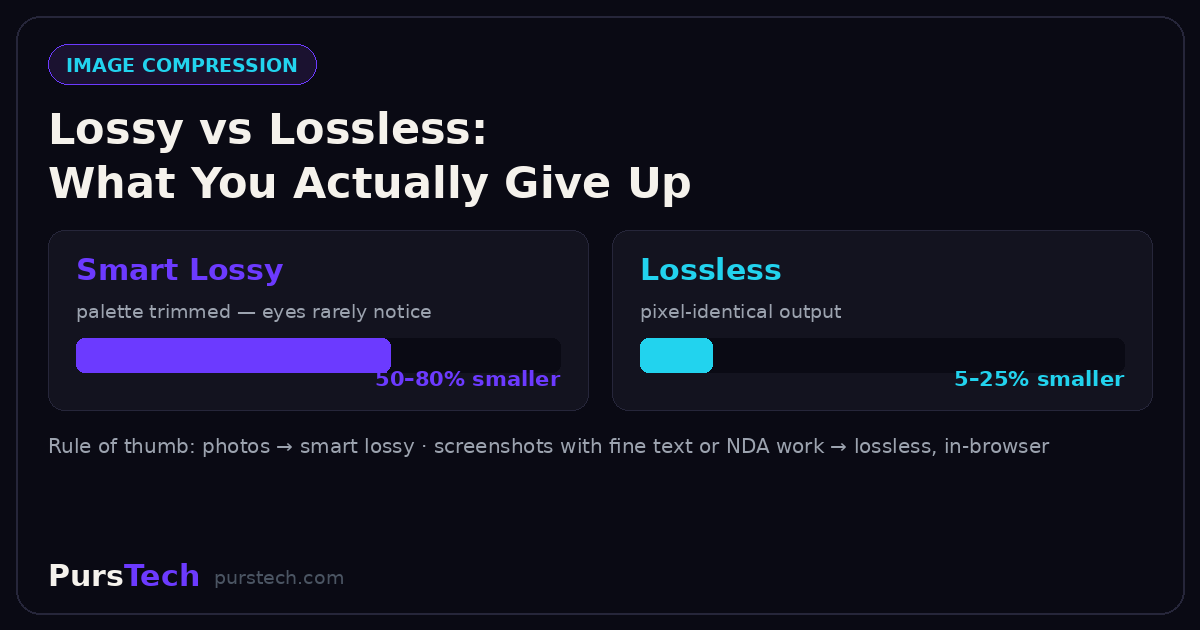
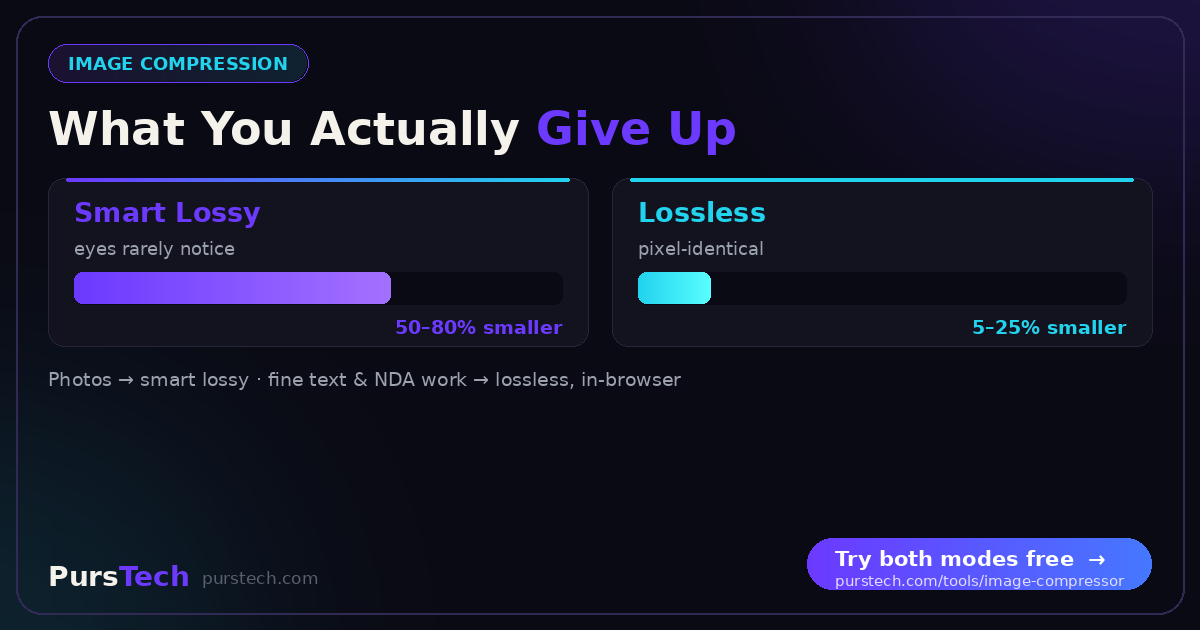
purstech-blog-images-v2

diff --git a/app/blog/data.ts b/app/blog/data.ts
@@ -14,6 +14,7 @@ export const BLOG_POSTS: Record<string, {
   relatedTools: { name: string; slug: string; icon: string }[];
   relatedPosts?: string[];
   heroImage?:   string;
+  heroAlt?:     string;
 }> = {
 
   // ═════════════════════════════════════════════════════════════════════════
@@ -25,6 +26,7 @@ export const BLOG_POSTS: Record<string, {
     slug:         "tinypng-alternatives",
     relatedPosts: ["how-to-compress-images-without-losing-quality", "webp-vs-jpeg-vs-png-2026", "how-to-remove-background-gimp-canva"],
     heroImage:    "/blog-images/tinypng-alternatives.png",
+    heroAlt:      "Infographic: TinyPNG's three limits — 5 MB file cap, 20-image batch ceiling and server uploads — with PursTech Image Compressor and Squoosh as the two tested alternatives that never upload, saving 50-80%",
     excerpt:      "TinyPNG is great — until you hit the 5 MB cap, the 20-file batch limit, or realise every image uploads to a server. Here are 7 free alternatives compared honestly, including two that never upload your images at all.",
     category:     "Image Tools",
     readTime:     "7 min read",
@@ -107,6 +109,7 @@ export const BLOG_POSTS: Record<string, {
     slug:         "how-to-remove-background-gimp-canva",
     relatedPosts: ["tinypng-alternatives", "how-to-compress-images-without-losing-quality"],
     heroImage:    "/blog-images/how-to-remove-background-gimp-canva.png",
+    heroAlt:      "Cheat sheet: five GIMP background-removal methods matched to image types, next to a free browser AI remover with no signup versus Canva's Pro-only tool",
     excerpt:      "Step-by-step background removal in GIMP — Fuzzy Select, Color to Alpha, Paths and Foreground Select — plus how Canva's one-click remover works, why it sits behind Canva Pro, and the free browser AI that does it in seconds.",
     category:     "Image Tools",
     readTime:     "8 min read",
@@ -195,6 +198,8 @@ export const BLOG_POSTS: Record<string, {
     title:        "How to Check Word Count in Google Docs, Word & PDF (2026)",
     slug:         "how-to-check-word-count",
     relatedPosts: ["word-count-guide-every-platform", "free-seo-tools-that-work"],
+    heroImage:    "/blog-images/how-to-check-word-count.png",
+    heroAlt:      "Cheat sheet: word count via Ctrl+Shift+C in Google Docs, Ctrl+Shift+G in Microsoft Word, copy-paste for PDFs, and a browser counter for everything else",
     excerpt:      "Every way to check word count in Google Docs (desktop and mobile), Microsoft Word and PDF files — including keyboard shortcuts, the live counter, and what to do when an app has no counter at all.",
     category:     "Writing",
     readTime:     "6 min read",
@@ -274,6 +279,8 @@ export const BLOG_POSTS: Record<string, {
     title:        "Best Free JSON Formatter Tools Online (2026 Update)",
     slug:         "best-free-json-formatter-tools",
     relatedPosts: ["base64-encoding-explained", "url-encoding-developer-guide"],
+    heroImage:    "/blog-images/best-free-json-formatter-tools.png",
+    heroAlt:      "Before and after: a minified single-line JSON object transformed into indented, syntax-highlighted, validated output",
     excerpt:      "Discover the top free JSON formatter and validator tools available online. We compare speed, features and ease of use so you can pick the right one.",
     category:     "Developer Tools",
     readTime:     "6 min read",
@@ -335,6 +342,7 @@ export const BLOG_POSTS: Record<string, {
     slug:         "how-to-compress-images-without-losing-quality",
     relatedPosts: ["tinypng-alternatives", "webp-vs-jpeg-vs-png-2026"],
     heroImage:    "/blog-images/how-to-compress-images-without-losing-quality.png",
+    heroAlt:      "Comparison card: smart lossy compression saves 50-80% and is rarely noticeable, lossless saves 5-25% with pixel-identical output",
     excerpt:      "A practical guide to reducing image file sizes for the web — which formats to use, how much compression is safe, and the free tools that do it best.",
     category:     "Image Tools",
     readTime:     "7 min read",
@@ -390,6 +398,8 @@ export const BLOG_POSTS: Record<string, {
     title:        "What Makes a Password Strong? The Complete 2026 Guide",
     slug:         "strong-password-guide",
     relatedPosts: ["merge-pdf-files-without-uploading", "base64-encoding-explained"],
+    heroImage:    "/blog-images/strong-password-guide.png",
+    heroAlt:      "Statistic card: a 16-character lowercase password has 450,000 times more combinations than 12 characters, with dictionary words, letter substitutions and keyboard patterns crossed out as mistakes",
     excerpt:      "Everything you need to know about creating and managing strong passwords — length, complexity, common mistakes and how to stay secure in 2026.",
     category:     "Security",
     readTime:     "8 min read",
@@ -442,6 +452,8 @@ export const BLOG_POSTS: Record<string, {
     title:        "HEX vs RGB vs HSL: Which Color Format Should You Use?",
     slug:         "hex-vs-rgb-vs-hsl-color-formats",
     relatedPosts: ["webp-vs-jpeg-vs-png-2026", "how-to-remove-background-gimp-canva"],
+    heroImage:    "/blog-images/hex-vs-rgb-vs-hsl-color-formats.png",
+    heroAlt:      "One purple swatch expressed three ways: HEX #6C3AFF, RGB 108 58 255, and HSL 255 100% 61%",
     excerpt:      "A complete guide to web color formats for developers and designers — when to use HEX, RGB, HSL and how to convert between them instantly.",
     category:     "Design",
     readTime:     "6 min read",
@@ -488,6 +500,8 @@ export const BLOG_POSTS: Record<string, {
     title:        "QR Codes for Business: The Complete 2026 Guide",
     slug:         "qr-codes-for-business-complete-guide",
     relatedPosts: ["free-seo-tools-that-work", "url-encoding-developer-guide"],
+    heroImage:    "/blog-images/qr-codes-for-business-complete-guide.png",
+    heroAlt:      "Comparison: static QR codes are free forever with a fixed destination, dynamic codes are paid with editable destinations and scan analytics",
     excerpt:      "Everything businesses need to know about QR codes in 2026 — how they work, the best use cases, design tips and how to generate them for free.",
     category:     "Developer Tools",
     readTime:     "7 min read",
@@ -538,6 +552,8 @@ export const BLOG_POSTS: Record<string, {
     title:        "Base64 Encoding Explained: A Developer's Guide",
     slug:         "base64-encoding-explained",
     relatedPosts: ["url-encoding-developer-guide", "best-free-json-formatter-tools"],
+    heroImage:    "/blog-images/base64-encoding-explained.png",
+    heroAlt:      "Diagram: Base64 turns every 3 bytes into four 6-bit characters, so Hello becomes SGVsbG8= and output is about 33% larger",
     excerpt:      "What is Base64 encoding, how does it work and when should you use it? A practical guide for developers with real-world examples.",
     category:     "Developer Tools",
     readTime:     "6 min read",
@@ -591,6 +607,8 @@ export const BLOG_POSTS: Record<string, {
     title:        "BMI Calculator: What Your Score Actually Means",
     slug:         "bmi-calculator-guide-what-your-score-means",
     relatedPosts: ["loan-calculator-with-extra-payments", "strong-password-guide"],
+    heroImage:    "/blog-images/bmi-calculator-guide-what-your-score-means.png",
+    heroAlt:      "BMI scale with WHO categories — underweight below 18.5, normal to 24.9, overweight to 29.9, obese from 30 — and the BMI = kg divided by height squared formula",
     excerpt:      "A complete guide to BMI — how it is calculated, what the categories mean, its limitations and how to use it alongside other health metrics.",
     category:     "Health",
     readTime:     "7 min read",
@@ -641,6 +659,8 @@ export const BLOG_POSTS: Record<string, {
     title:        "URL Encoding Explained: A Developer's Complete Guide",
     slug:         "url-encoding-developer-guide",
     relatedPosts: ["base64-encoding-explained", "best-free-json-formatter-tools"],
+    heroImage:    "/blog-images/url-encoding-developer-guide.png",
+    heroAlt:      "Examples of percent-encoding: a space becomes %20, an ampersand becomes %26, and the UTF-8 character e-acute becomes %C3%A9",
     excerpt:      "What is URL encoding, why it matters and how to use it correctly in web applications. Everything developers need to know about percent-encoding.",
     category:     "Developer Tools",
     readTime:     "6 min read",
@@ -692,6 +712,8 @@ export const BLOG_POSTS: Record<string, {
     title:        "Free SEO Tools That Actually Work in 2026",
     slug:         "free-seo-tools-that-work",
     relatedPosts: ["tinypng-alternatives", "word-count-guide-every-platform", "qr-codes-for-business-complete-guide"],
+    heroImage:    "/blog-images/free-seo-tools-that-work.png",
+    heroAlt:      "Grid of six free SEO tools: Google Search Console, Google Analytics 4, PageSpeed Insights, Bing Webmaster Tools, Screaming Frog and free keyword tools",
     excerpt:      "The definitive list of the best free SEO tools for keyword research, technical audits, rank tracking and content optimization in 2026.",
     category:     "SEO",
     readTime:     "8 min read",
@@ -744,6 +766,8 @@ export const BLOG_POSTS: Record<string, {
     title:        "Word Count Guide: The Right Length for Every Platform",
     slug:         "word-count-guide-every-platform",
     relatedPosts: ["how-to-check-word-count", "free-seo-tools-that-work"],
+    heroImage:    "/blog-images/word-count-guide-every-platform.png",
+    heroAlt:      "Range chart of ideal word counts: news 500-800, product reviews 1,000-1,500, in-depth guides 1,500-2,500 words, plus the 100-200 character sweet spot on X",
     excerpt:      "How many words should your content be? The definitive word count guide for blog posts, social media, emails, SEO meta tags and every other platform.",
     category:     "Writing",
     readTime:     "7 min read",
@@ -794,6 +818,8 @@ export const BLOG_POSTS: Record<string, {
     title:        "How to Compress a PDF Without Losing Quality (2026 Guide)",
     slug:         "compress-pdf-without-losing-quality",
     relatedPosts: ["merge-pdf-files-without-uploading", "how-to-compress-images-without-losing-quality"],
+    heroImage:    "/blog-images/compress-pdf-without-losing-quality.png",
+    heroAlt:      "Chart of four PDF compression levels: Low 300 DPI about 30% smaller for print, Medium 150 DPI about 60% recommended, High 96 DPI about 78% for mobile, Maximum 72 DPI about 90% for drafts",
     excerpt:      "Reduce PDF file size by 50-90% without visible quality loss. Complete 2026 guide covering compression levels, when to use each, and free browser-based tools that never upload your file.",
     category:     "PDF Tools",
     readTime:     "7 min read",
@@ -886,6 +912,8 @@ export const BLOG_POSTS: Record<string, {
     title:        "Merge PDF Files Without Uploading Them: The Privacy-First Way",
     slug:         "merge-pdf-files-without-uploading",
     relatedPosts: ["compress-pdf-without-losing-quality", "strong-password-guide"],
+    heroImage:    "/blog-images/merge-pdf-files-without-uploading.png",
+    heroAlt:      "Diagram: server-based PDF mergers upload files to their servers, browser-based merging keeps files on your device throughout",
     excerpt:      "Combine multiple PDFs into one file directly in your browser — no servers, no uploads, no privacy risks. Step-by-step guide plus comparison of online vs browser-based PDF merge methods.",
     category:     "PDF Tools",
     readTime:     "6 min read",
@@ -969,6 +997,8 @@ export const BLOG_POSTS: Record<string, {
     title:        "Loan Calculator with Extra Payments: How They Actually Save You Money",
     slug:         "loan-calculator-with-extra-payments",
     relatedPosts: ["bmi-calculator-guide-what-your-score-means", "compress-pdf-without-losing-quality"],
+    heroImage:    "/blog-images/loan-calculator-with-extra-payments.png",
+    heroAlt:      "Bar chart: on a $200,000 mortgage at 6.5%, extra monthly payments of $50, $100, $200 and $500 save $41,253 to $184,712 in interest",
     excerpt:      "Adding even small extra payments to your loan can cut years off the term and save thousands in interest. See exactly how much you would save with real examples and a free calculator.",
     category:     "Finance",
     readTime:     "8 min read",
@@ -1060,6 +1090,7 @@ export const BLOG_POSTS: Record<string, {
     slug:         "webp-vs-jpeg-vs-png-2026",
     relatedPosts: ["how-to-compress-images-without-losing-quality", "tinypng-alternatives", "hex-vs-rgb-vs-hsl-color-formats"],
     heroImage:    "/blog-images/webp-vs-jpeg-vs-png-2026.png",
+    heroAlt:      "Bar chart: the same 1920x1080 photo at quality 85 as PNG 2,400 KB, JPEG 780 KB, WebP 510 KB and AVIF 420 KB — WebP is 35% smaller than JPEG",
     excerpt:      "WebP produces files 25-35% smaller than JPEG at the same quality and is now supported by every browser. Here is exactly when to use each format, with real file-size comparisons and a free conversion tool.",
     category:     "Image Tools",
     readTime:     "7 min read",

diff --git a/app/blog/[slug]/page.tsx b/app/blog/[slug]/page.tsx
@@ -202,7 +202,7 @@ export default async function BlogPostPage(
 
             {/* 📷 Hero infographic — per-post image, doubles as OG image */}
             {post.heroImage && (
-              <img src={post.heroImage} alt={post.title} width={1200} height={630}
+              <img src={post.heroImage} alt={post.heroAlt ?? post.title} width={1200} height={630}
                 className="w-full h-auto rounded-2xl border border-white/5 mb-8" />
             )}
 
